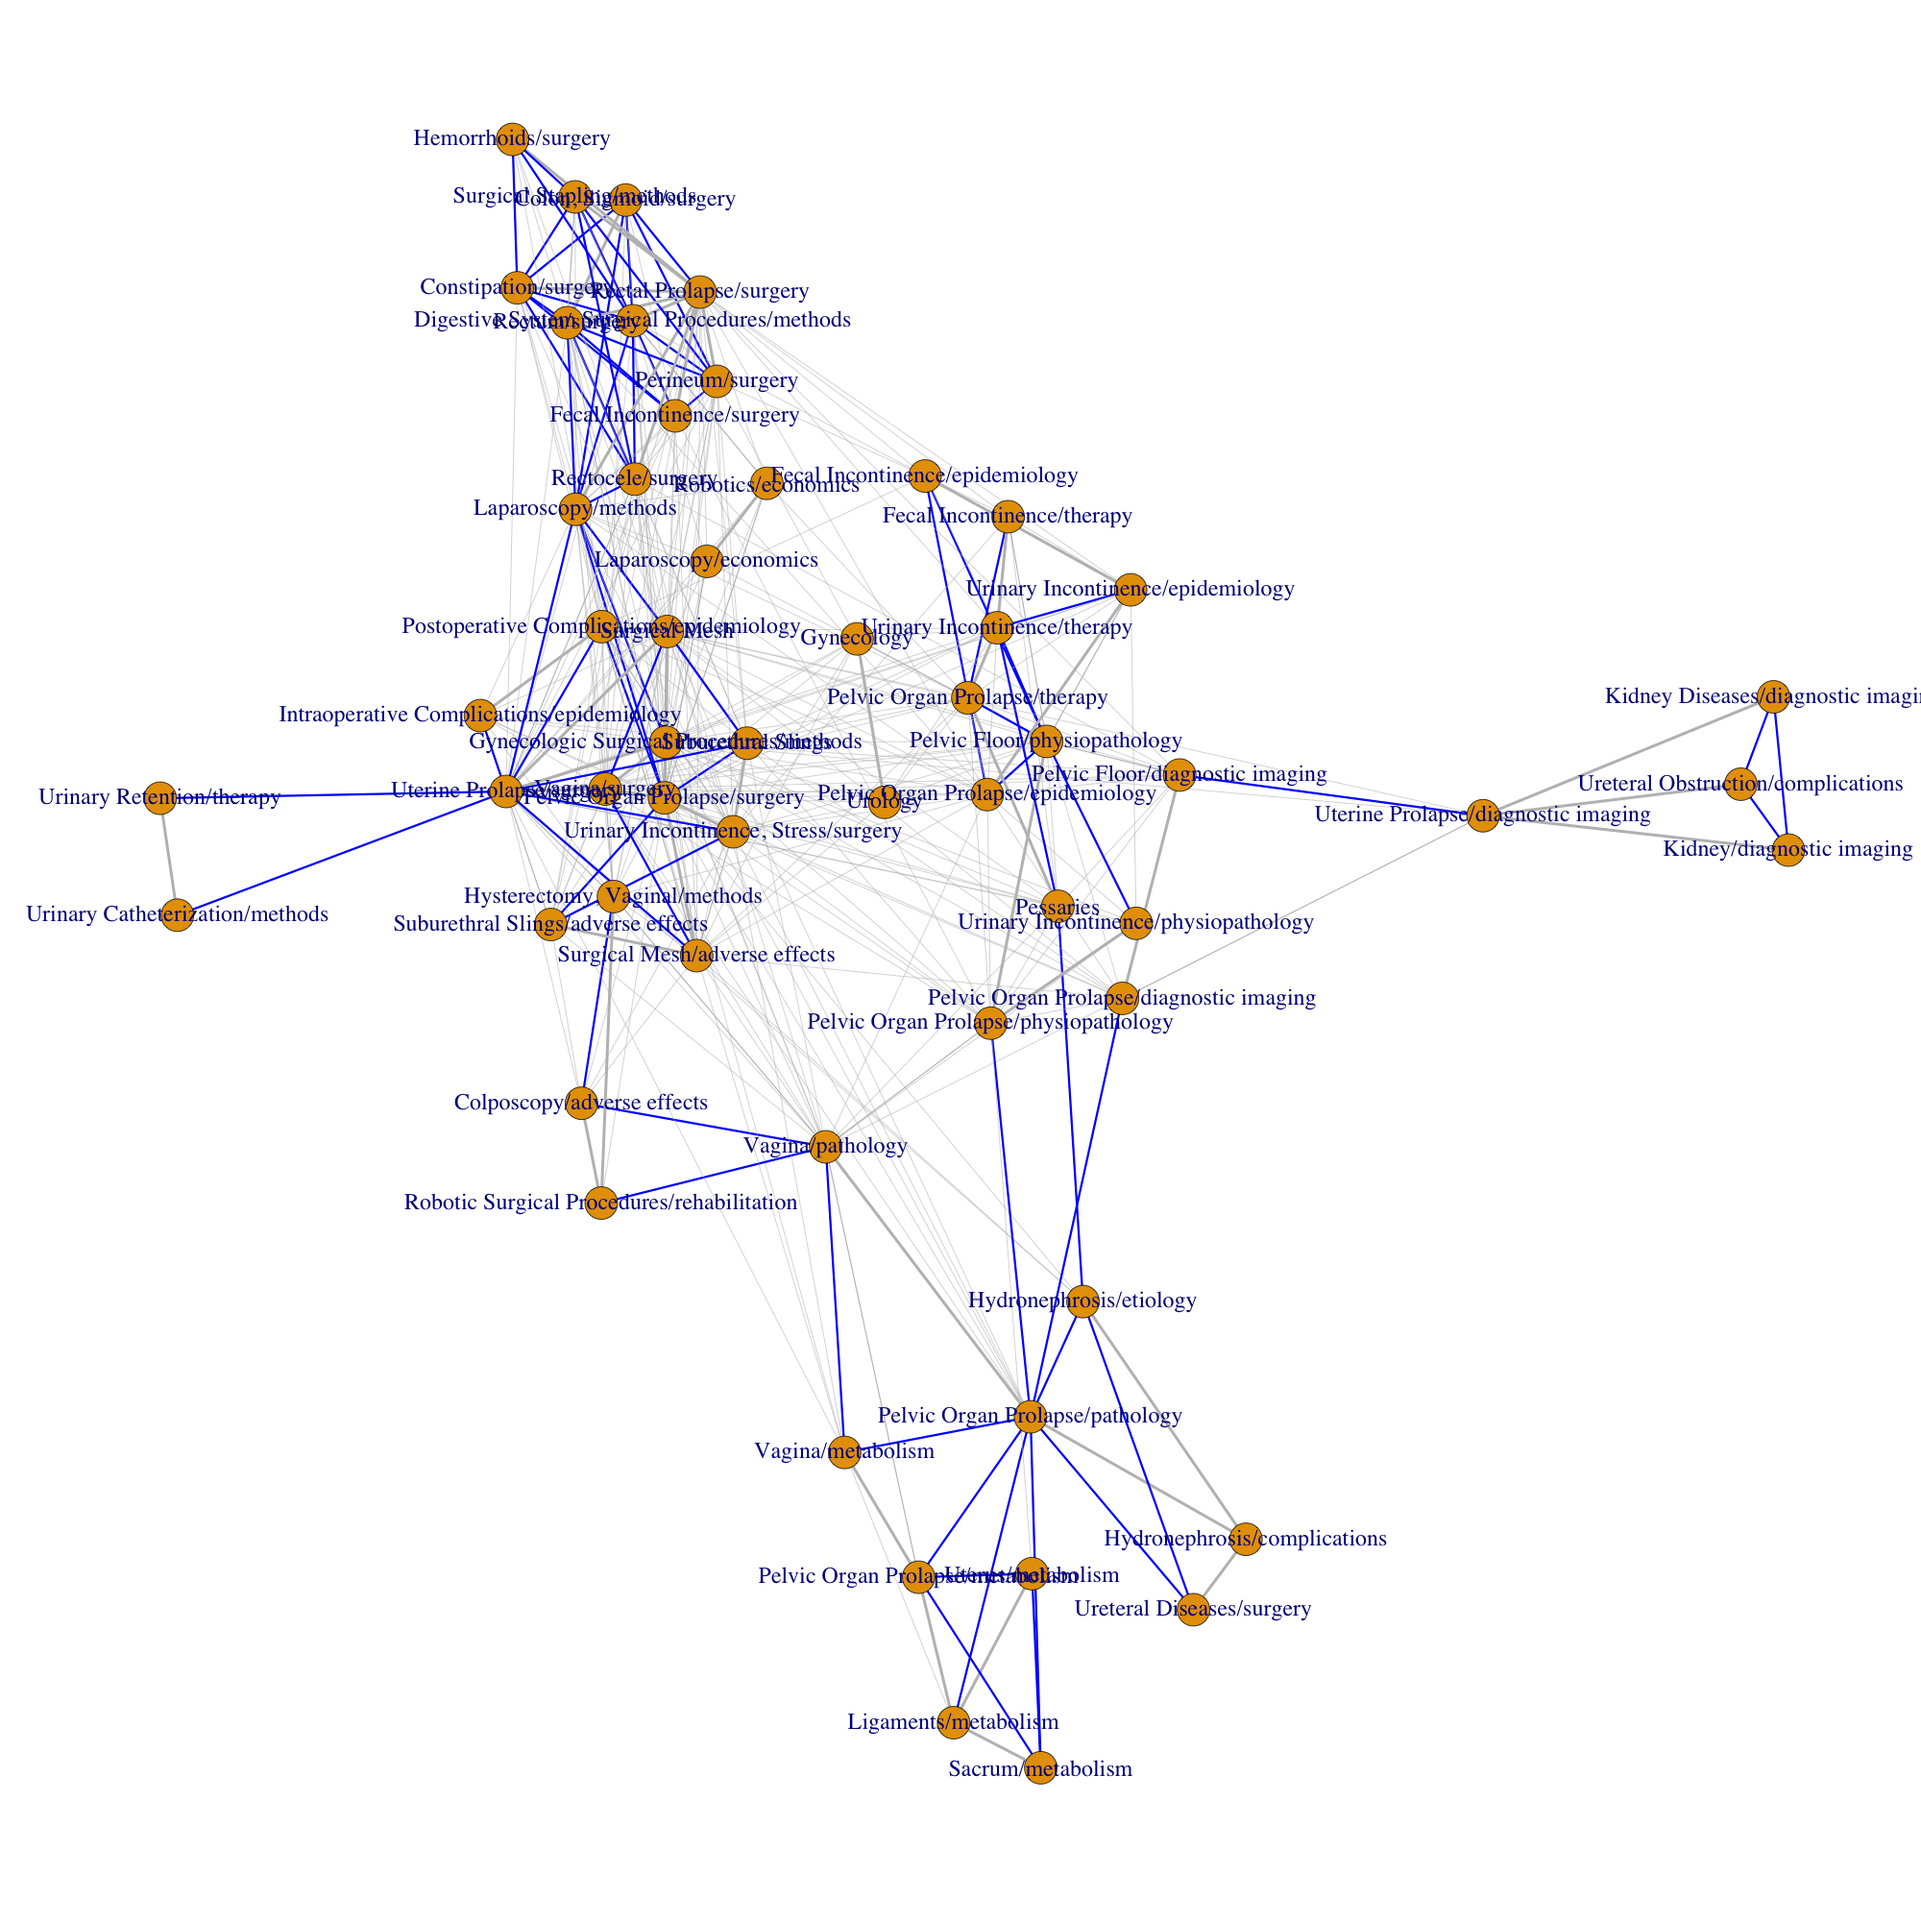
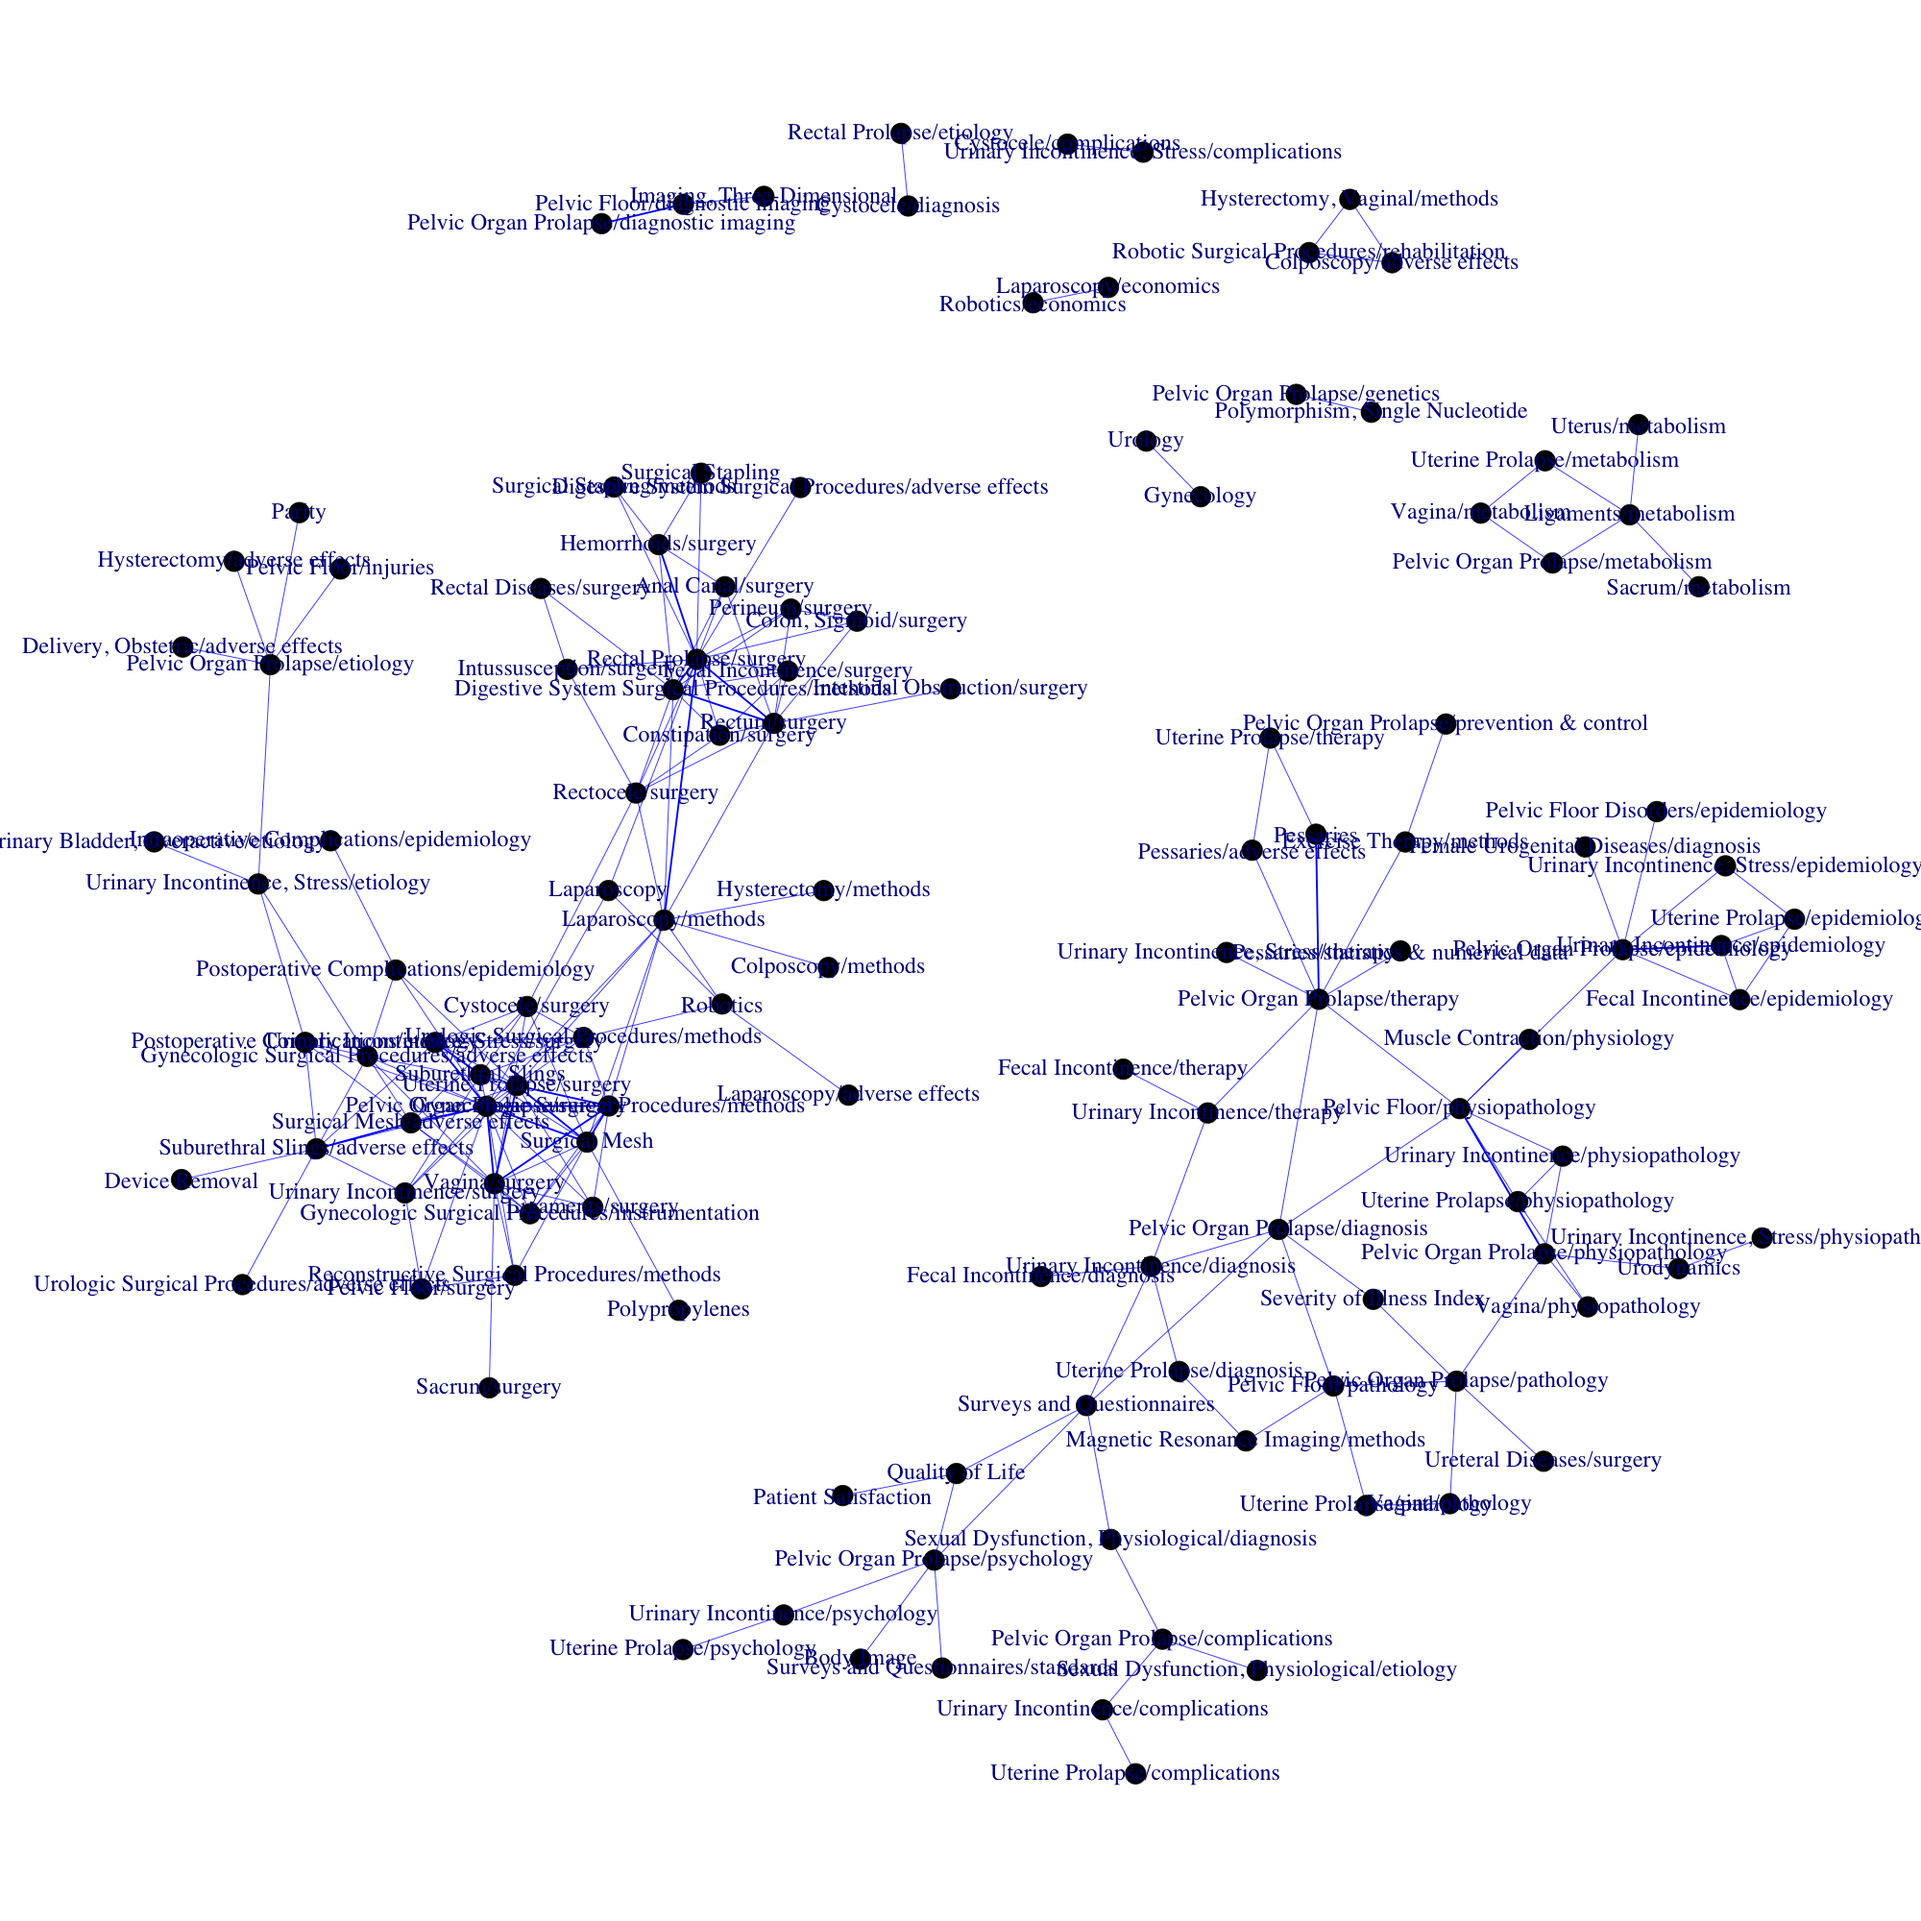
modify readme file

diff --git a/README.md b/README.md
@@ -197,7 +197,7 @@ dev.off()
 The result is shown in Figure5 in the manuscript.
 ![Image text](https://raw.githubusercontent.com/xizhou/co-occurrence-analysis/main/fig5.png)
 
-## Real data application
+## Applications
 We chose a bibliometric study about pelvic organ prolapse (POP) as our real data application to illustrate how the probabilistic model can be used for MeSH word co-occurrence analysis and compared our new result with  the original one.
 
 ### Visualizing the result 
@@ -248,7 +248,7 @@ ALL function are defined in the file "code.R".  The result in form of a high dim
 
 
 **Network of MeSH terms**
-- Then, we built a network structure of MeSH terms (0 < pval < 0.05) of POP dataset  to explore the relationship among these MeSH terms.
+- Then, we built a network structure of MeSH terms (0 < pval < 0.01) of POP dataset  to explore the relationship among these MeSH terms.
 
 The code are following:
 
@@ -256,16 +256,21 @@ The code are following:
 png("fig2.png",w=2000,h=2000)
 set.seed(100)
 g <- graph.adjacency(s, mode = "undirected", weighted =T, diag = F)
-E(g)$width <- as.numeric(cut(E(g)$weight,c(0,0.95,0.99,1,2),right=FALSE))
-E(g)$width[E(g)$width==1] <- 0.75
-E(g)$width[E(g)$width==2] <- 1.5
-E(g)$color <- ifelse(E(g)$width==3,"blue","gray")
-plot(g,vertex.size=4,vertex.label.cex=2)
+g <- as_data_frame(g)
+g <- g[g[,3]>0.99,]
+f <- unique(c(g[,1],g[,2]))
+write.csv(f,file="g.csv")
+g <- graph_from_data_frame(g,directed=F)
+E(g)$width <- 1
+E(g)$width[E(g)$weight==1] <- 2.5
+E(g)$color <- "blue"
+V(g)$color <- "black"
+plot(g,vertex.size=2.5,vertex.label.cex=2)
 dev.off()
 ```
 
 
-"![Image text](https://raw.githubusercontent.com/Miao-zhou/Co-occurrence-analysis/main/fig2.png)"
+"![Image text](https://raw.githubusercontent.com/xizhou/co-occurrence-analysis/main/fig2.png)"
 
 
 **Comparison of results**
